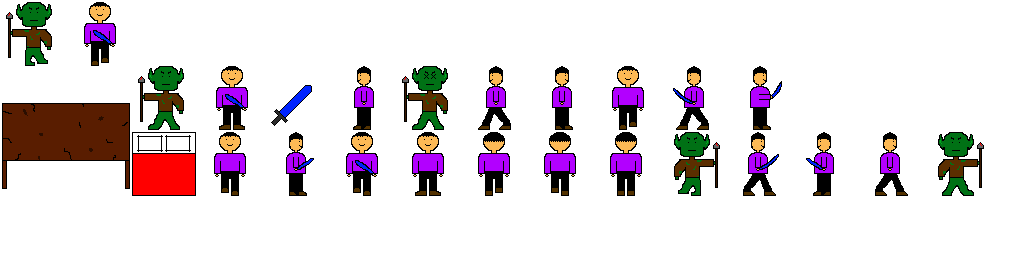
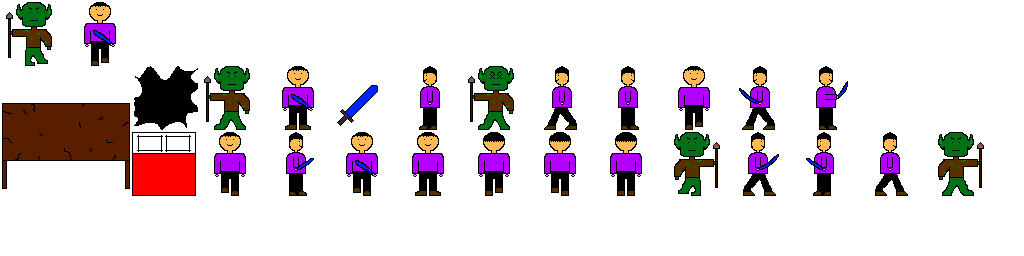
added a hole in the floor to assets, and collision with hole in player

Changed region(s): [[0.125, 0.25, 0.5, 0.5312], [0.5938, 0.25, 0.8438, 0.5312], [0.5312, 0.4375, 0.5625, 0.5312]]

diff --git a/core/src/main/java/com/engine/project1/Main.java b/core/src/main/java/com/engine/project1/Main.java
@@ -28,6 +28,7 @@ public class Main extends ApplicationAdapter {
     public Goblin goblinOne;
     public Asset table;
     public Asset bed;
+    public Asset holeInFloor;
     float deltaTime;
     public MyTable myTable;
     public ShapeRenderer shapeRenderer;
@@ -37,6 +38,7 @@ public class Main extends ApplicationAdapter {
     public float viewportHeight = 480f;
     public Texture texture;
     public BitmapFont font;
+
 
 
     @Override
@@ -49,6 +51,7 @@ public class Main extends ApplicationAdapter {
         goblinOne = new Goblin(atlas);
         table = new Asset(atlas);
         bed = new Asset(atlas);
+        holeInFloor = new Asset(atlas);
         shapeRenderer = new ShapeRenderer();
         font = new BitmapFont(Gdx.files.internal("Fonts/my_font.fnt"));
         camera = new OrthographicCamera(SCREEN_WIDTH, SCREEN_HEIGHT);
@@ -78,6 +81,7 @@ public class Main extends ApplicationAdapter {
         hero.inputHandling(deltaTime, atlas);
         table.draw(spriteBatch);
         bed.draw(spriteBatch);
+        holeInFloor.draw(spriteBatch);
         goblinOne.draw(spriteBatch);
         hero.draw(spriteBatch);
         sword.draw(spriteBatch);
@@ -90,6 +94,7 @@ public class Main extends ApplicationAdapter {
         sword.updateRectangle();
         table.updateRectangle();
         goblinOne.updateRectangle();
+        holeInFloor.updateRectangle();
 
         myTable.stage.act(deltaTime);
         myTable.stage.draw();
@@ -104,6 +109,7 @@ public class Main extends ApplicationAdapter {
             shapeRenderer.rect(hero.playerRectangle.x, hero.playerRectangle.y, hero.playerRectangle.width, hero.playerRectangle.height);
             shapeRenderer.rect(goblinOne.xPos, goblinOne.yPos, goblinOne.goblinWidth, goblinOne.goblinHeight);
             shapeRenderer.rect(table.tableX, table.tableY, table.tableWidth, table.tableHeight);
+            shapeRenderer.rect(holeInFloor.holeX, holeInFloor.holeY, holeInFloor.holeSize, holeInFloor.holeSize);
             shapeRenderer.end();
 
         }

diff --git a/core/src/main/java/com/engine/project1/MyTable.java b/core/src/main/java/com/engine/project1/MyTable.java
@@ -29,14 +29,14 @@ public class MyTable {
 
         stage = new Stage(new ScreenViewport());
         Gdx.input.setInputProcessor(stage);
+        debugButtonSkin = new Skin(Gdx.files.internal("ui/buttonStyle.json"));
+        invButtonSkin = new Skin(Gdx.files.internal("ui/invButtonStyle.json"));
+        labelSkin = new Skin(Gdx.files.internal("Fonts/labelStyle.json"));
         stageTable = new Table();
         stageTable.top().left();
         stageTable.setFillParent(true);
         stage.addActor(stageTable);
-        stageTable.setDebug(true);
-        debugButtonSkin = new Skin(Gdx.files.internal("ui/buttonStyle.json"));
-        invButtonSkin = new Skin(Gdx.files.internal("ui/invButtonStyle.json"));
-        labelSkin = new Skin(Gdx.files.internal("Fonts/labelStyle.json"));
+        stageTable.setDebug(false);
         Button debugButton = new Button(debugButtonSkin);
         Button invButton = new Button(invButtonSkin);
         Label label = new Label("", labelSkin);
@@ -60,7 +60,7 @@ public class MyTable {
                 isInvOpen = !isInvOpen;
                 label.setVisible(isInvOpen);
                 if (isInvOpen) {
-                    if (player.weapons.isEmpty()) {
+                    if (Player.weapons.isEmpty()) { // come back and check if weapons has sword.
                         label.setText("");
                     } else {
                         label.setText(sword.toString());

diff --git a/core/src/main/java/com/engine/project1/Asset.java b/core/src/main/java/com/engine/project1/Asset.java
@@ -15,24 +15,33 @@ public class Asset {
     public Rectangle tableRectangle;
     public int bedX = 0;
     public int bedY = 0;
-    public int bedWidth = 64;
-    public int bedHeight = 64;
+    public int bedSize = 64;
+    public Sprite holeInFloorSprite;
+    public Rectangle holeInFloorRectangle;
+    public int holeSize = 64;
+    public float holeX = Main.SCREEN_WIDTH - holeSize;
+    public float holeY = 0;
 
     public Asset(TextureAtlas atlas) {
         tableSprite = new Sprite(atlas.findRegion("table"));
         bedSprite = new Sprite(atlas.findRegion("bed"));
         tableRectangle = new Rectangle(tableX, tableY, tableWidth, tableHeight);
+        holeInFloorSprite = new Sprite(atlas.findRegion("hole_in_floor"));
+        holeInFloorRectangle = new Rectangle(holeX, holeY, holeSize, holeSize);
     }
 
     public void draw(SpriteBatch spriteBatch) {
         tableSprite.draw(spriteBatch);
         bedSprite.draw(spriteBatch);
+        holeInFloorSprite.draw(spriteBatch);
 
         tableSprite.setPosition(tableX, tableY);
         bedSprite.setPosition(bedX, bedY);
+        holeInFloorSprite.setPosition(holeX, holeY);
     }
 
     public void updateRectangle() {
-        tableRectangle.set(tableX, tableY, tableWidth, tableHeight);
+        tableRectangle.setPosition(tableX, tableY);
+        holeInFloorRectangle.setPosition(holeX, holeY);
     }
 }

diff --git a/core/src/main/java/com/engine/project1/Player.java b/core/src/main/java/com/engine/project1/Player.java
@@ -31,6 +31,7 @@ public class Player extends InputAdapter {
     public float frameDuration = 0.2f;
 
     Asset table;
+    Asset holeInFloor;
     Goblin goblin;
 
 
@@ -44,6 +45,7 @@ public class Player extends InputAdapter {
         weapons = new ArrayList<>();
         table = new Asset(atlas);
         goblin = new Goblin(atlas);
+        holeInFloor = new Asset(atlas);
     }
 
     public void draw(SpriteBatch spriteBatch) {
@@ -147,6 +149,10 @@ public class Player extends InputAdapter {
             }
         } else {
             collisionDetected = false;
+        }
+
+        if (xPos == holeInFloor.holeX && yPos == holeInFloor.holeY) {
+            System.out.println("Collided with hole in floor.");
         }
     }
 
